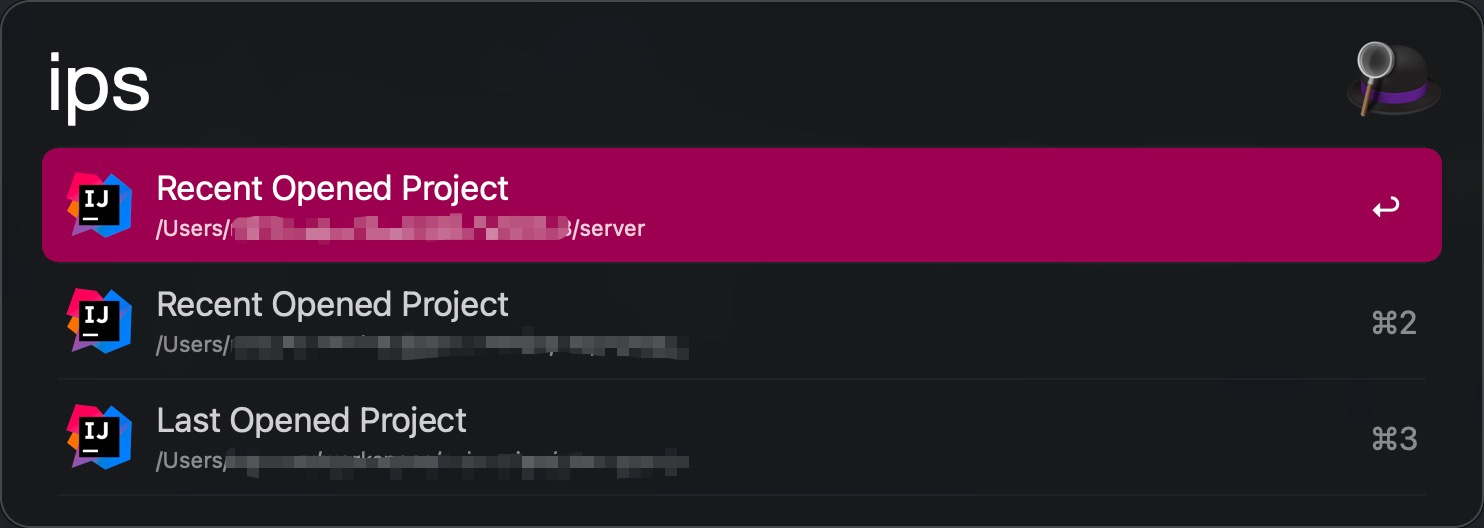
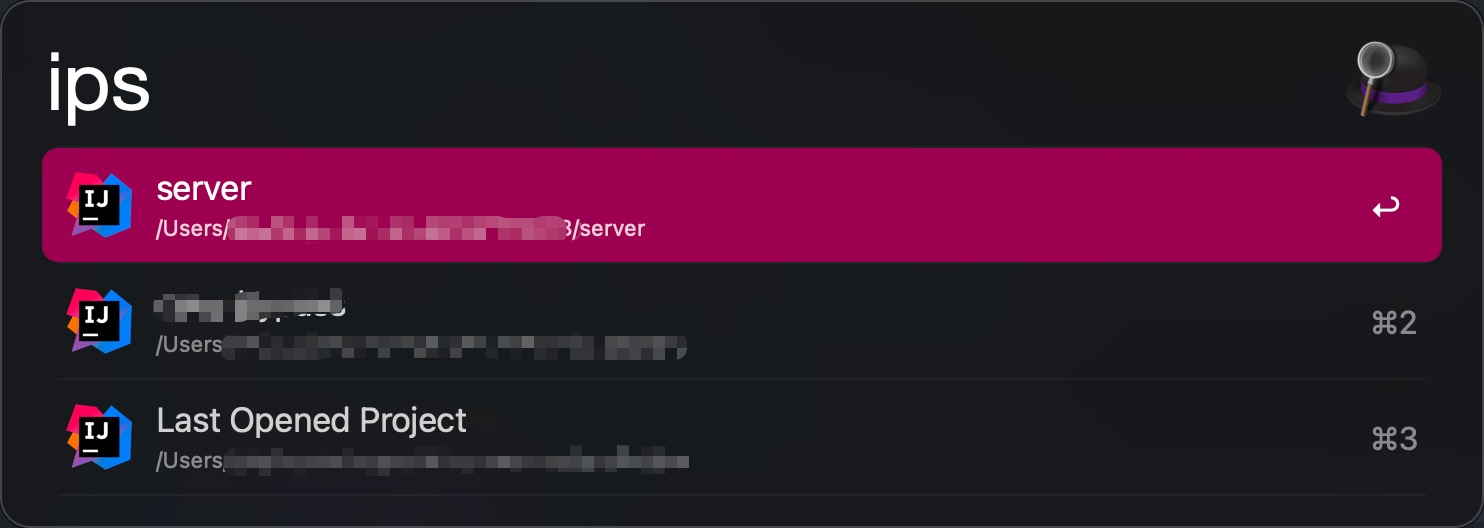
update README.md and doc

diff --git a/core/alfred.go b/core/alfred.go
@@ -2,6 +2,7 @@ package main
 
 import (
 	"os"
+	"path/filepath"
 	"strings"
 )
 
@@ -24,8 +25,9 @@ func parseItems(a *Application, items []*Item) []*Item {
 		} else {
 			for _, entry := range option.Omaps.Entries {
 				if realPath, isExist := getRealPath(entry.Key); isExist {
+					_, projectName := filepath.Split(realPath)
 					items = append(items, &Item{
-						Title: "Recent Opened Project",
+						Title: projectName,
 						Subtitle: realPath,
 						Arg: realPath,
 					})
